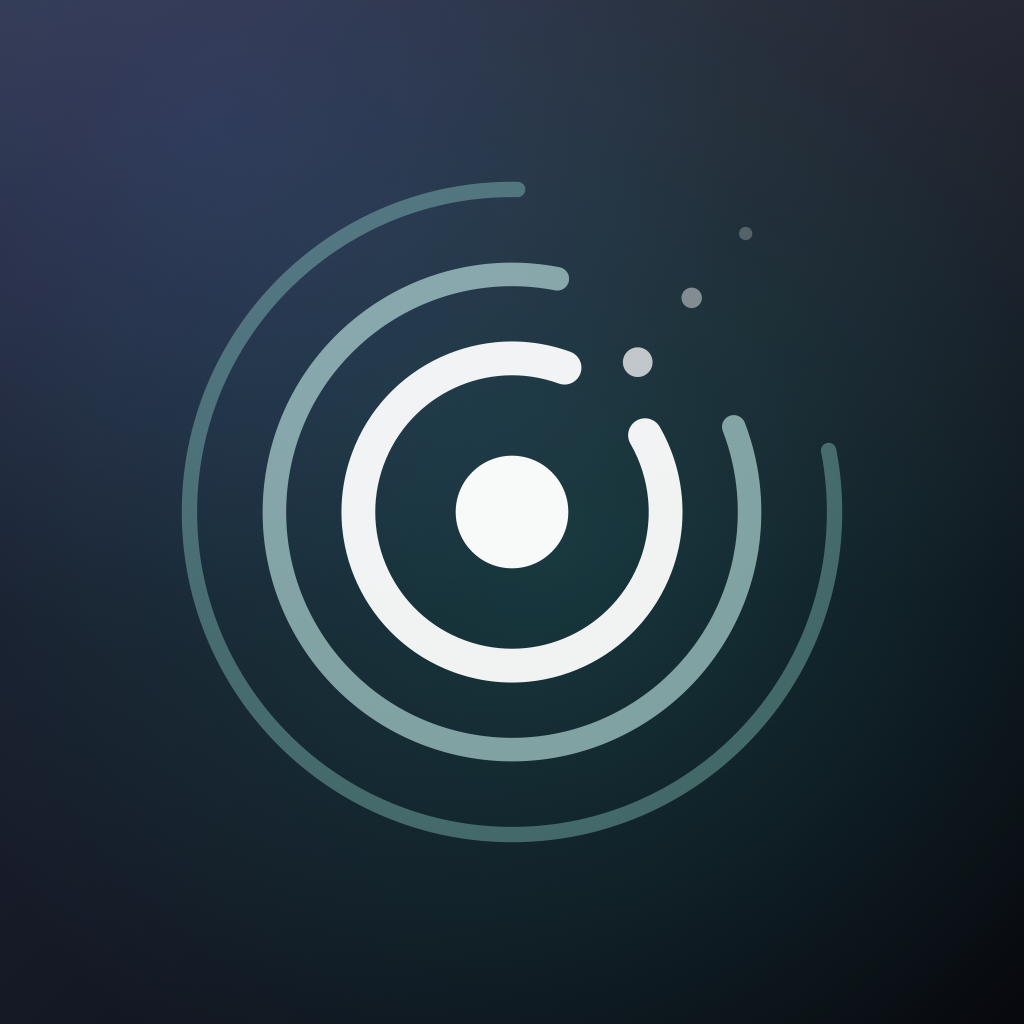
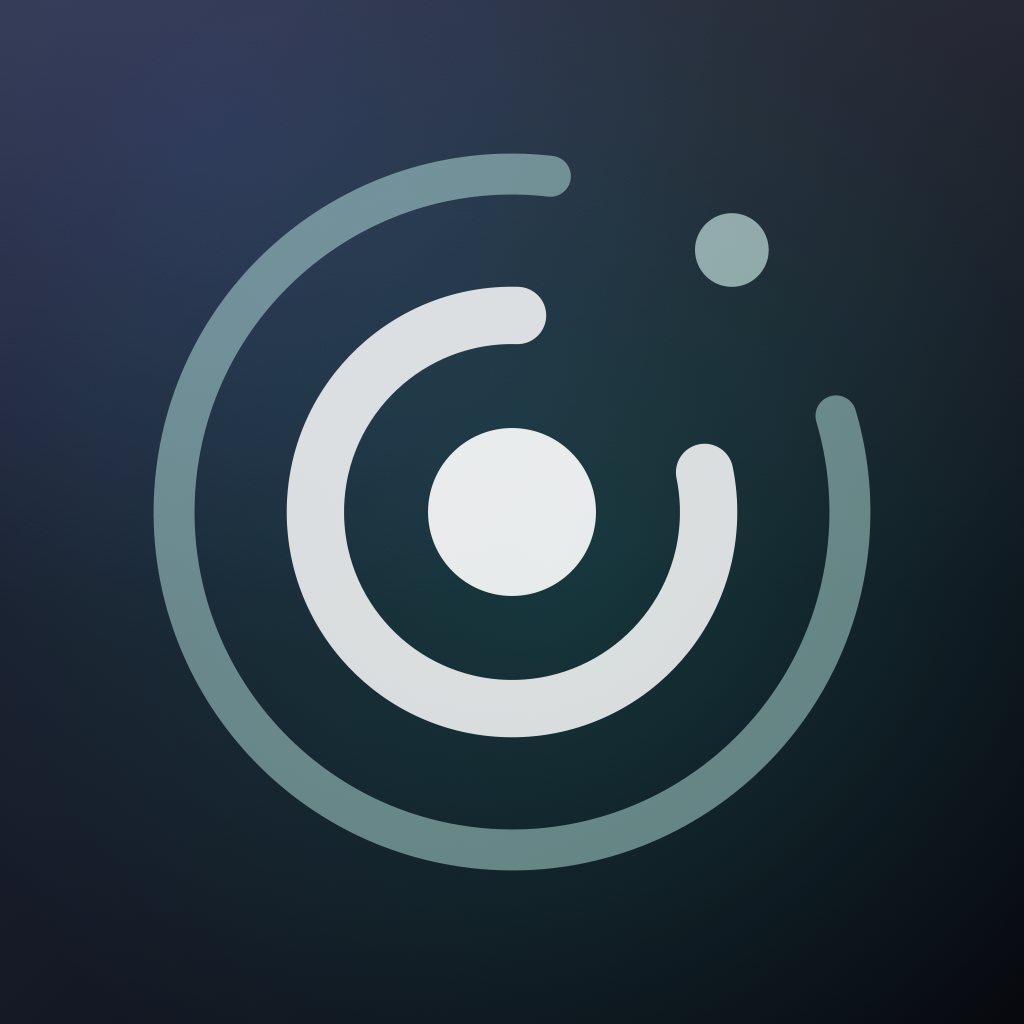
Align both ring gaps on one ray and seat a single bubble in the outer gap
Both rings now open the same visual gap (44 deg, centred at 50 deg), with each
arc widened by its own round caps so the four gap ends line up on two rays
through the center. The second bubble that drifted to the upper right is gone;
the remaining one sits in the middle of the outer gap at the ring's radius.
Regenerate every icon and banner, and bump the package to 0.1.2.

diff --git a/scripts/icon/FIZZIconGen.m b/scripts/icon/FIZZIconGen.m
@@ -114,10 +114,12 @@ static void FIZZDrawLinearGradient(CGContextRef context, CGPoint from, CGPoint t
 #pragma mark - Artwork
 
 // The mark is one badge and the wave it pushes out: a small solid dot in the
-// middle, three rings around it, each thinner and fainter than the last, and
-// each opening a wider gap towards the upper right where three bubbles have
-// already left. The tile is dark ink with two very quiet auras, so the white
-// mark carries the whole icon without anything else competing with it.
+// middle, two rings around it, the outer one thinner and fainter, both opening
+// the same gap towards the upper right on one ray, with a bubble seated in it.
+// Two rings only: at 29 pt a third one turned the tile into a target with rings
+// inside rings, and the two that remain still read as one mark spreading out.
+// The tile stays dark ink with two very quiet auras, so the pale mark carries the
+// icon on its own.
 static void FIZZDrawArtwork(CGContextRef context, CGFloat side)
 {
     // Ink: a touch of blue at the top left, almost black at the bottom right.
@@ -141,47 +143,46 @@ static void FIZZDrawArtwork(CGContextRef context, CGFloat side)
     CGPoint center = CGPointMake(side * 0.5, side * 0.5);
     CGColorRef white = FIZZColor(1, 1, 1, 1);
 
-    // Rings. The gap faces the upper right; it widens with every ring, so the
-    // three read as one motion outwards rather than three separate circles.
-    static const CGFloat ringRadius[3] = { 0.150, 0.232, 0.315 };
-    static const CGFloat ringWidth[3] = { 0.033, 0.023, 0.015 };
-    static const CGFloat ringAlpha[3] = { 0.94, 0.58, 0.34 };
-    static const CGFloat ringGap[3] = { 40.0, 58.0, 78.0 };
-    // The outer rings lean towards the teal of the aura, so the mark has a
-    // colour of its own instead of being plain white lines on ink.
-    static const CGFloat ringTint[3][3] = {
+    // Rings. The gap faces the upper right, and both rings open the same visual
+    // gap so the two openings sit on one ray through the center; each arc is
+    // drawn wider by its own round caps, which are what eat back into the gap.
+    static const CGFloat ringRadius[2] = { 0.192, 0.330 };
+    static const CGFloat ringWidth[2] = { 0.056, 0.040 };
+    static const CGFloat ringAlpha[2] = { 0.84, 0.48 };
+    static const CGFloat gapVisual = 44.0;
+    // The outer ring leans towards the teal of the aura, so the mark has a colour
+    // of its own instead of being plain white lines on ink.
+    static const CGFloat ringTint[2][3] = {
         { 1.000, 1.000, 1.000 },
-        { 0.812, 0.976, 0.953 },
-        { 0.639, 0.925, 0.878 },
+        { 0.760, 0.941, 0.914 },
     };
     static const CGFloat gapAngle = 50.0;
-    for (NSUInteger index = 0; index < 3; index++) {
-        CGFloat start = (CGFloat)((gapAngle + ringGap[index] / 2.0) * M_PI / 180.0);
-        CGFloat end = (CGFloat)((gapAngle - ringGap[index] / 2.0) * M_PI / 180.0);
+    for (NSUInteger index = 0; index < 2; index++) {
+        CGFloat radius = side * ringRadius[index];
+        CGFloat capHalfWidth = side * ringWidth[index] / 2.0;
+        CGFloat capDegrees = 2.0 * asin(capHalfWidth / radius) * 180.0 / M_PI;
+        CGFloat gap = gapVisual + capDegrees;
+        CGFloat start = (CGFloat)((gapAngle + gap / 2.0) * M_PI / 180.0);
+        CGFloat end = (CGFloat)((gapAngle - gap / 2.0) * M_PI / 180.0);
         CGColorRef ring = FIZZColor(ringTint[index][0], ringTint[index][1], ringTint[index][2],
                                     ringAlpha[index]);
-        FIZZStrokeArc(context, center, side * ringRadius[index], side * ringWidth[index],
-                      ring, start, end);
+        FIZZStrokeArc(context, center, radius, side * ringWidth[index], ring, start, end);
         CGColorRelease(ring);
     }
 
-    // The badge itself, small and solid, and the bubbles that got away: they sit
-    // on the axis of the gaps, shrinking as they travel.
-    CGColorRef badge = FIZZColorWithAlpha(white, 0.97);
-    FIZZFillCircle(context, center, side * 0.055, badge);
+    // The badge itself, solid, and the one bubble seated in the mouth of the
+    // outer ring's gap, on the ring's own radius, so the mark reads as one piece
+    // instead of a ring with a dot drifting off in the corner.
+    CGColorRef badge = FIZZColorWithAlpha(white, 0.90);
+    FIZZFillCircle(context, center, side * 0.082, badge);
     CGColorRelease(badge);
 
-    static const CGFloat bubbleRadius[3] = { 0.191, 0.273, 0.355 };
-    static const CGFloat bubbleSize[3] = { 0.0145, 0.0100, 0.0065 };
-    static const CGFloat bubbleAlpha[3] = { 0.72, 0.44, 0.24 };
     CGFloat angle = (CGFloat)(gapAngle * M_PI / 180.0);
-    for (NSUInteger index = 0; index < 3; index++) {
-        CGPoint point = CGPointMake(center.x + cos(angle) * side * bubbleRadius[index],
-                                    center.y + sin(angle) * side * bubbleRadius[index]);
-        CGColorRef bubble = FIZZColorWithAlpha(white, bubbleAlpha[index]);
-        FIZZFillCircle(context, point, side * bubbleSize[index], bubble);
-        CGColorRelease(bubble);
-    }
+    CGPoint bubble = CGPointMake(center.x + cos(angle) * side * 0.334,
+                                 center.y + sin(angle) * side * 0.334);
+    CGColorRef bubbleColor = FIZZColor(0.840, 0.960, 0.945, 0.68);
+    FIZZFillCircle(context, bubble, side * 0.050, bubbleColor);
+    CGColorRelease(bubbleColor);
 
     CGColorRelease(white);
     CGColorRelease(sheenBottom);
@@ -294,17 +295,17 @@ int main(void)
             CGImageRelease(icon);
         }
 
-        // The badge must be at the middle of the icon, the innermost ring must be
-        // crossed above it, the upper right must hold a bubble, and the outermost
-        // corner must be fully transparent.
+        // The badge must be at the middle of the icon, both rings must be crossed
+        // above it, the upper right must hold a bubble, and the outermost corner
+        // must be fully transparent.
         CGContextRef probe = FIZZCreateContext(87.0);
         CGImageRef probeIcon = FIZZCreateRoundedIcon(master, 87.0);
         CGContextDrawImage(probe, CGRectMake(0, 0, 87, 87), probeIcon);
         CGImageRelease(probeIcon);
         FIZZSamplePixel(probe, 87.0, 0.50, 0.50, "badge");
-        FIZZSamplePixel(probe, 87.0, 0.50, 0.65, "ring-1");
-        FIZZSamplePixel(probe, 87.0, 0.50, 0.78, "gap");
-        FIZZSamplePixel(probe, 87.0, 0.66, 0.70, "bubble");
+        FIZZSamplePixel(probe, 87.0, 0.50, 0.672, "ring-inner");
+        FIZZSamplePixel(probe, 87.0, 0.50, 0.830, "ring-outer");
+        FIZZSamplePixel(probe, 87.0, 0.715, 0.244, "bubble-gap");
         FIZZSamplePixel(probe, 87.0, 0.01, 0.01, "corner");
         CGContextRelease(probe);
 
